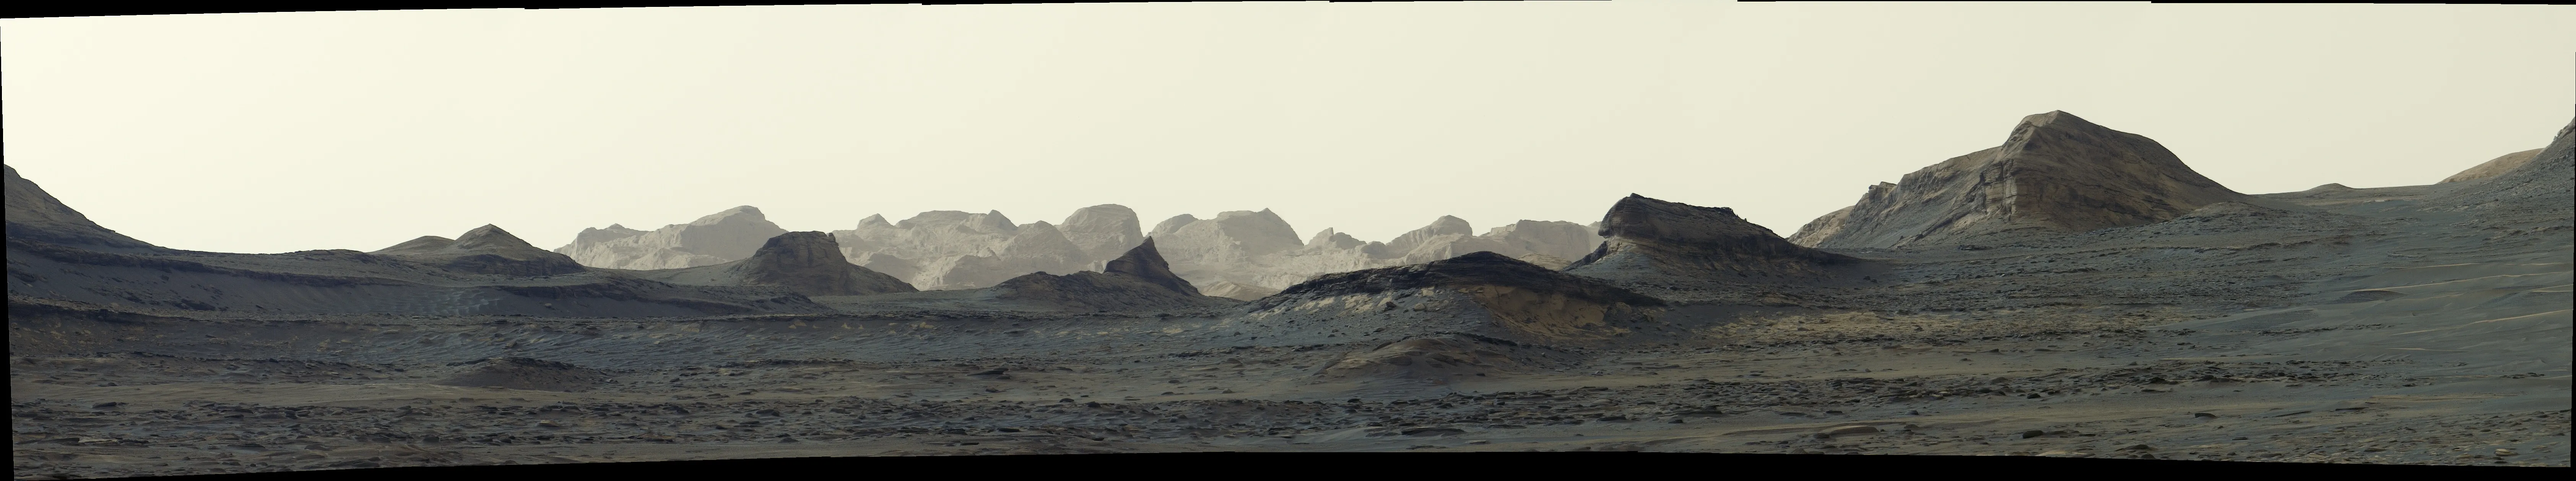
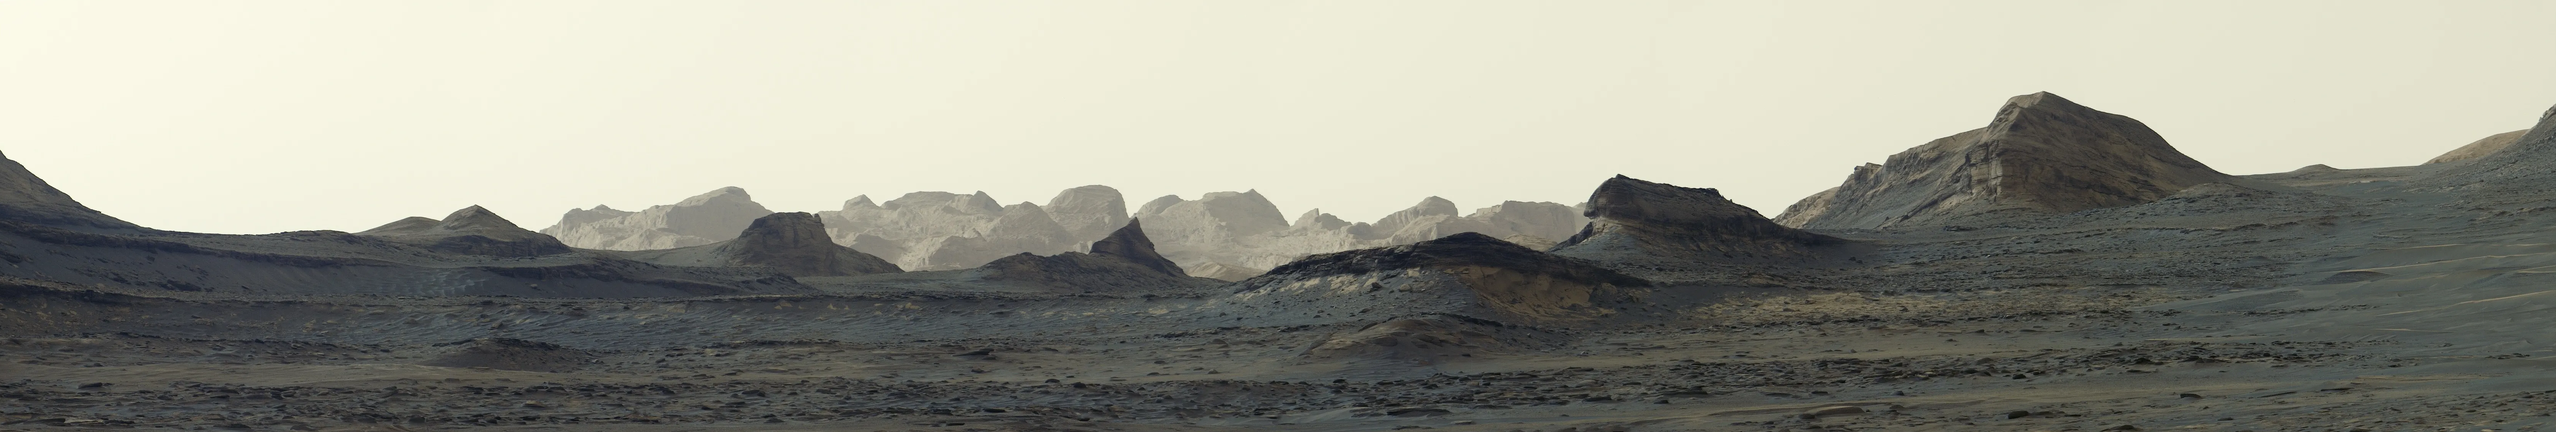
Positioned the mars panorama and made it move

diff --git a/src/style.css b/src/style.css
@@ -1,6 +1,17 @@
 body {
   font-family: "Times New Roman", Times, serif;
   background-image: url("/src/assets/mars-panorama.webp");
+  min-height: 100%;
+  background-position-y: top;
+  animation: background-scroll 120s linear infinite;
+}
+@keyframes background-scroll {
+  from {
+    background-position-x: 0px;
+  }
+  to {
+    background-position-x: -6686px;
+  }
 }
 
 
